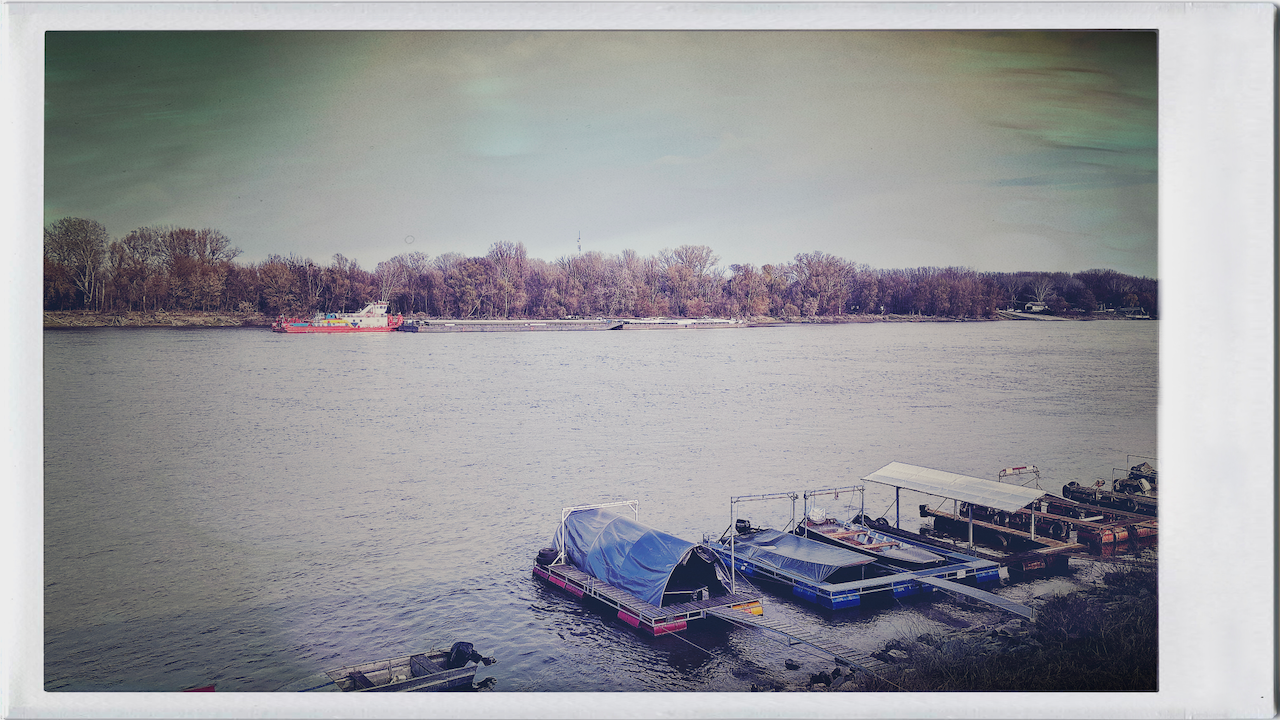
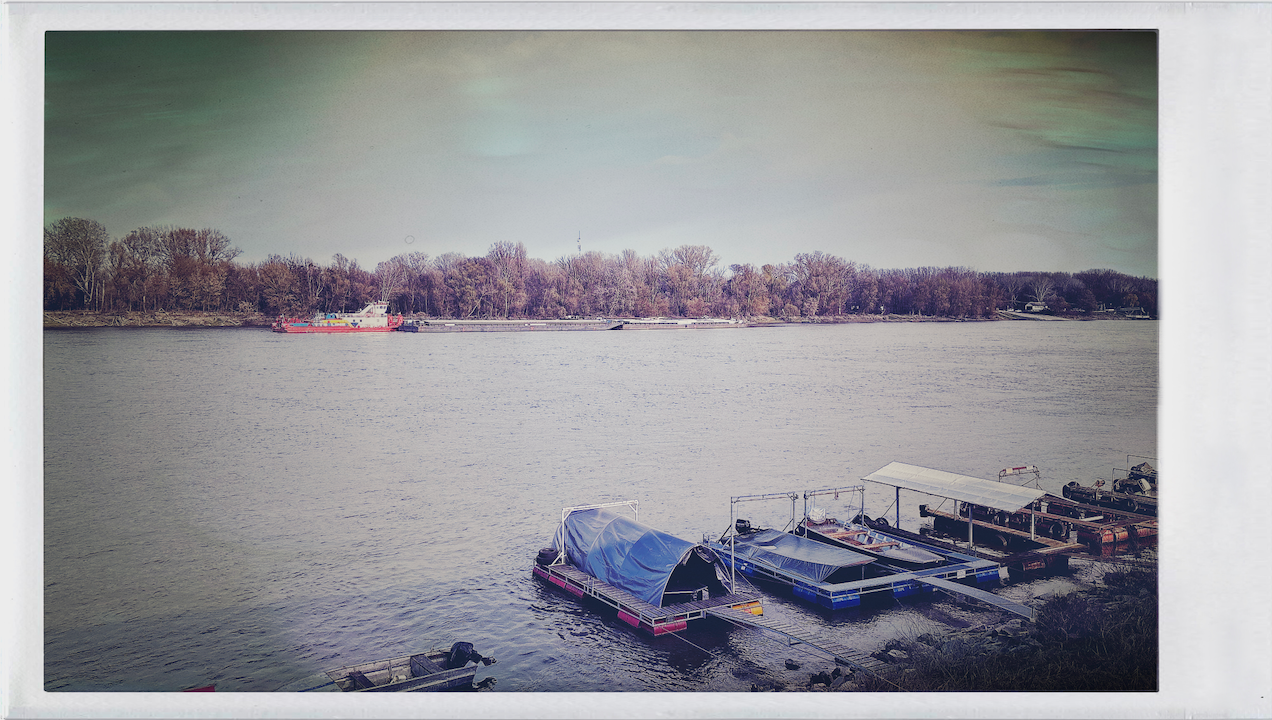
UPD

diff --git a/_posts/2026-05-05-56.md b/_posts/2026-05-05-56.md
@@ -2,16 +2,27 @@
 layout:   post_2026
 title:    56
 author:   flex
-category: Test / teszt
+category: 2026
 tags:     [életbölcsesség, flex]
 comments: false
 
-beforeMain: '<div class="image-container"><img width="100%" style="height: 400px; margin-bottom: -45px;" src="photos/graffiti/graffiti01.jpeg"><div class="image-caption">Budapest, XVIII. kerület</div></div>'
+disableContentTitle: true
+
+beforeMain: '<div class="image-container" style="position: relative;"><img class="shadow" width="100%" style="height: 400px;" src="photos/graffiti/graffiti01.jpeg"><div style="position: absolute; bottom: 10px; right: 10;" class="image-caption">Budapest, XVIII. kerület</div></div>'
 ---
+
+<div style="max-width: 950px; margin: auto;">
+
+<h1 style="margin-bottom: 0px;">{{ page.title }}</h1>
 
 {% include hudate.html %}
 
 {% include prev_next_mini.html %}
+
+<div class="image-container" style="position: relative; width: 100%;">
+<img src="photos/graffiti/graffiti01.jpeg" alt="Graffiti Budapesten" style="width: 100%; height: auto; display: block;">
+<div class="image-caption" style="position: absolute; bottom: 10px; right: 10;">Budapest, XVIII. kerület</div>
+</div>
 
 <style>
     .name-container {
@@ -60,11 +71,13 @@ beforeMain: '<div class="image-container"><img width="100%" style="height: 400px
     <span class="letter">n</span>
 </div>
 
+</div>
+
 Eljön az a pont, amikor azt kérdezed magadtól: **"Mit kezdjek a hátralevő időmmel?"**[^1]
 
 [^1]: Apple TV+: For All Mankind S05 Trailer
 
-Nekem ez már valahol régebben becsípődött, hogy nem sok értelme van már ennek a vegetácációnak, de nézzük sorjában, hogyha nem innen nézzük, akkor minek lehetne talán még értelme[^2]:
+Nekem ez már valahol régebben becsípődött, hogy nem sok értelme van már ennek a vegetációnak, de nézzük sorjában, hogyha nem innen nézzük, akkor minek lehetne talán még értelme[^2]:
 	
 [^2]: [In the Blink of an Eye](https://www.imdb.com/title/tt6341826/)	
 	
@@ -75,34 +88,3 @@ Nekem ez már valahol régebben becsípődött, hogy nem sok értelme van már e
 - kompúterezés, mint mindig, ha már ezt dobta az élet
 - utazás, kirándulás
 - és talán itt vége is ennek a rövid listának
-
-| Név | Típus | Leírás |
-| :--- | :---: | :--- |
-| Első sor | Adat | Valamilyen szöveg |
-| Második sor | Adat | Még több szöveg |
-| Harmadik sor | Adat | Tartalom |
-| Első sor | Adat | Valamilyen szöveg |
-| Második sor | Adat | Még több szöveg |
-| Harmadik sor | Adat | Tartalom |
-| Első sor | Adat | Valamilyen szöveg |
-| Második sor | Adat | Még több szöveg |
-| Harmadik sor | Adat | Tartalom |
-{: .random-table style="width:100%"}
-
-<script>
-window.addEventListener('DOMContentLoaded', (event) => {
-  const rows = document.querySelectorAll('.random-table tr');
-  const goldenRatioConjugate = 0.618033988749895;
-  let hue = Math.random(); // Kezdőpont véletlenszerű
-
-  rows.forEach((row, index) => {
-    if (index === 0) return;
-
-    hue += goldenRatioConjugate;
-    hue %= 1; // Megtartjuk a tizedes jegyeket (0 és 1 között)
-    
-    const finalHue = Math.floor(hue * 360);
-    row.style.backgroundColor = `hsl(${finalHue}, 70%, 85%)`;
-    row.style.transition = "background-color 0.5s ease";
-  });
-});</script>

diff --git a/_posts/2026-05-08-Narcisztika.md b/_posts/2026-05-08-Narcisztika.md
@@ -1,0 +1,35 @@
+---
+layout:   post_2026
+title:    Nárcisztika
+author:   flex
+category: 2026
+tags:     [életbölcsesség, nárcisztika, flex]
+comments: false
+
+beforeMain: '<div class="image-container" style="position: relative;"><img class="shadow" width="100%" style="height: 600px;" src="photos/202605/HipstamaticPhoto-799406631.322188.jpeg"><div style="position: absolute; bottom: 10px; right: 10;" class="image-caption"><a href="https://www.nhm.at/en">Természettudományi Múzeum</a>; Bécs, 2026.05.</div></div>'
+---
+
+{% include hudate.html %}
+
+{% include prev_next_mini.html %}
+
+Hogy én miért érzem így???
+
+A **nárcisztikus** jellemzőkkel bíró családtag, a domináns anyafigura a környezetüket eszközként használják saját önértékelésük fenntartásához. Sztem ez megvan. ✓
+
+A **nárcisztikus anya** mélyén valójában egy rendkívül törékeny és bizonytalan énkép áll. Szüksége van a környezete kontrollálására és „kiszívására”, mert:
+
+1. validáció: ha a gyereke sikeres, ő jó anyának érezheti magát
+- az anya kényszeríti a gyermekét a kimagasló teljesítményre (sport, tanulás, művészet), de nem a gyerek boldogsága miatt, hanem azért, hogy ő büszkélkedhessen vele 
+- ha a gyerek megnyer egy versenyt vagy jól végzi a tanulmányait, az anya úgy beszél róla, mintha az az ő érdeme lenne. Én szültem én hoztam meg azt az áldozatot, én nyomtam/mondtam folyamatosan, hogy tanulj, tanulj... 
+2. biztonság: ha a családtagok bizonytalanok körülötte és bűntudatuk van, nem fogják őt elhagyni
+3. felsőbbrendűség: mások (különösen a házastárs) leértékelésével tudja csak fenntartani saját nagyszerűségének illúzióját
+4. izoláció: a család gyakran elszigeteli a házastársat a saját támogatói hálózatától (barátok, saját család), így az áldozat úgy érzi, nincs hová menekülnie
+
+A **„Mártír-szerep”** (Bűntudatkeltés eszközként)
+
+- az önértékelését abból nyeri, hogy ő a család „szent áldozata”, aki mindenkiért mindent feláldoz, és ezt folyamatosan hangoztatja is. Példa: „Én dolgozom, takarítok, mosok és főzők rátok és ti még csak egy telefont sem bírtok megereszteni naponta! Ezáltal a családtagokat állandó bűntudatban tartja, ami folyamatos kontrollt biztosít számára felettük.
+
+**Érzelmi vámpírizmus**: a nárcisztikus személynek folyamatos figyelemre és visszaigazolásra van szüksége, miközben képtelen bármiféle empátiára.
+
+-  a házastársak gyakran kívülállóként érkeznek, és belekerülnek egy olyan zárt rendszerbe, ahol a nárcisztikus dinamika és az alkoholizmus felőrli az ellenálló képességüket

diff --git a/_posts/2026-05-04-Tabla.md b/_posts/2026-05-04-Tabla.md
@@ -1,0 +1,54 @@
+---
+layout:   post_2026
+title:    Táblázat
+author:   flex
+category: Test / teszt
+tags:     [életbölcsesség, flex]
+comments: false
+
+beforeMain: '<div class="image-container"><img class="shadow" width="100%" style="height: 400px; margin-bottom: -45px;" src="photos/graffiti/graffiti01.jpeg"><div class="image-caption">Budapest, XVIII. kerület</div></div>'
+---
+
+{% include hudate.html %}
+
+{% include prev_next_mini.html %}
+
+<style>
+    table { width: 100%; border-collapse: collapse; }
+    table :is(td, th) { 
+      border: 1px solid var(--text-color);  
+      padding: 0.3em;
+    }
+    table th { background-color: var(--table-bg-color); }
+</style>
+
+| Név | Típus | Leírás |
+| :--- | :---: | :--- |
+| Első sor | Adat | Valamilyen szöveg |
+| Második sor | Adat | Még több szöveg |
+| Harmadik sor | Adat | Tartalom |
+| Első sor | Adat | Valamilyen szöveg |
+| Második sor | Adat | Még több szöveg |
+| Harmadik sor | Adat | Tartalom |
+| Első sor | Adat | Valamilyen szöveg |
+| Második sor | Adat | Még több szöveg |
+| Harmadik sor | Adat | Tartalom |
+{: .random-table style="width:100%"}
+
+<script>
+window.addEventListener('DOMContentLoaded', (event) => {
+  const rows = document.querySelectorAll('.random-table tr');
+  const goldenRatioConjugate = 0.618033988749895;
+  let hue = Math.random(); // Kezdőpont véletlenszerű
+
+  rows.forEach((row, index) => {
+    if (index === 0) return;
+
+    hue += goldenRatioConjugate;
+    hue %= 1; // Megtartjuk a tizedes jegyeket (0 és 1 között)
+    
+    const finalHue = Math.floor(hue * 360);
+    row.style.backgroundColor = `hsl(${finalHue}, 70%, 85%)`;
+    row.style.transition = "background-color 0.5s ease";
+  });
+});</script>

diff --git a/_posts/2026-05-10-TEXT_editors.md b/_posts/2026-05-10-TEXT_editors.md
@@ -1,0 +1,27 @@
+---
+layout:   post_2026
+title:    Text editors
+author:   flex
+category: 2026
+tags:     [macOS, texteditor, text]
+comments: false
+
+beforeMain: '<div class="image-container" style="position: relative;"><img class="shadow" width="100%" style="height: 300px;" src="images/202605/Screenshot 2026-05-08 at 14.12.44.png"><div style="position: absolute; bottom: 10px; right: 10;" class="image-caption"><a href="https://zed.dev/">Zed v1.1.5</a>; Mohács, 2026.05.</div></div>'
+---
+
+{% include hudate.html %}
+
+{% include prev_next_mini.html %}
+
+Ezek a szöveg, kód, .TXT szerkesztők vannak 2026.05.10-én a gépemen:
+
+- Craft (ez egy kicsit más, de ez is ez egy kicsit és mivel magyar gyökerű, ezért is marad még)
+- Zed (ez nagyon szép és nagyon jó, de sajnos nem kezeli a helyesírásellenőrzőt)
+- CotEditor (ez most a favorit meg a Zed)
+- vim (ha nagyon kell valamit gyorsan csinálni terminálban, varázsszerszám)
+- Typora (kuka)
+- Textedit (a macOS beépített textszerkesztője, beépített így marad)
+- Antigravity (Google cucc, kuka)
+- WhyNote (notesz jegyzetelő, mivel csak egy noteszelő, kuka)
+- Antinote (notesz jegyzetelő, kuka) 
+- Sublime Text (ultimate texteditor, ami kezd kimenni a fókuszomból, a régi emlékek miatt marad még, főleg, hogy vannak még benne át nem migrált szövegek)

diff --git a/index.md b/index.md
@@ -6,7 +6,7 @@ category: index
 tags:     [muzax, video]
 comments: false
 
-beforeMain: '<div class="image-container"><img width="100%" style="height: 470px; margin-bottom: -45px;" src="images/1563176849891-Vice-LICK-Photo-Bex-Wade-5.jpeg"><div class="image-caption">Source: <a href="https://www.vice.com/en/article/neapm7/lick-events-launch-opening-queer-women-club" target="_blank">"Inside the Queer Club with a Strict ‘No Men’ Policy"</a></div></div>'
+beforeMain: '<div class="image-container"><img class="shadow" width="100%" style="height: 470px; margin-bottom: -45px;" src="images/1563176849891-Vice-LICK-Photo-Bex-Wade-5.jpeg"><div class="image-caption">Source: <a href="https://www.vice.com/en/article/neapm7/lick-events-launch-opening-queer-women-club" target="_blank">"Inside the Queer Club with a Strict ‘No Men’ Policy"</a></div></div>'
 ---
 
 {% assign rawtags = "" %}

diff --git a/_posts/2026-05-09-DJ.md b/_posts/2026-05-09-DJ.md
@@ -1,0 +1,18 @@
+---
+layout:   post_2026
+title:    DJ
+author:   flex
+category: 2026
+tags:     [dj, hobbi, flex]
+comments: false
+
+beforeMain: '<div class="image-container" style="position: relative;"><img class="shadow" width="100%" style="height: 700px;" src="photos/oldHiFi/IMG_1810_ORIGINAL.png"><div style="position: absolute; bottom: 10px; right: 10;" class="image-caption">HiFi teszt set; Mohács, valamikor 1991. környékén</div></div>'
+---
+
+{% include hudate.html %}
+
+{% include prev_next_mini.html %}
+
+Ha lenne rá kedvem/időm, akkor lehet ezzel kezdeném: **Pioneer DJ DDJ-FLX4**
+
+{% include youtube_2026.html id="U0U2dnrHoaI" %}

diff --git a/_posts/2026-04-20-83_nyara_Svedorszag.md b/_posts/2026-04-20-83_nyara_Svedorszag.md
@@ -6,7 +6,7 @@ category: 2026
 tags:     [flex, visszaemlékezés, nosztalgia]
 comments: false
 
-beforeMain: '<div class="image-container"><img width="100%" style="height: 470px; margin-bottom: -45px;" src="photos/Travemunde-Trelleborg.png"><div class="image-caption">Travemünde - Trelleborg</div></div>'
+beforeMain: '<div class="image-container"><img class="shadow" width="100%" style="height: 470px; margin-bottom: -45px;" src="photos/Travemunde-Trelleborg.png"><div class="image-caption">Travemünde - Trelleborg</div></div>'
 ---
 
 {% include hudate.html %}

diff --git a/_posts/2026-03-12-Mohacsi_Dunapart_20260312.md b/_posts/2026-03-12-Mohacsi_Dunapart_20260312.md
@@ -9,7 +9,9 @@ comments: false
 
 {% include hudate.html %}
 
-{% include prev_next_mini.html %}
+{% include prev_next.html %}
+
+<iframe data-testid="embed-iframe" style="border-radius:12px" src="https://open.spotify.com/embed/track/0nOp1yPLpl6fy3S6aWjZm9?utm_source=generator" width="100%" height="152" frameBorder="0" allowfullscreen="" allow="autoplay; clipboard-write; encrypted-media; fullscreen; picture-in-picture" loading="lazy"></iframe>
 
 {% include figure.html 
    url="photos/20260312_Mohacs/XWDNE3521.png" lightboxable="true"

diff --git a/_posts/2026-12-07-55photo_v2.md b/_posts/2026-12-07-55photo_v2.md
@@ -11,12 +11,6 @@ comments: false
 
 {% include prev_next_mini.html %}
 
-| t | t |
-|---|---:|
-| {::nomarkdown} {:/} | aaaaaaa |
-
-| {::nomarkdown} yourhtmlhere-or-include {% include figure.html url="photos/20260315_mzpx_Daft Punk.jpg" lightboxable="true" shadow="true" radius="3px" width="100%" float="" caption='' align="right" %} {:/} | t |
-
 <style>
 
 #toc-button i{
